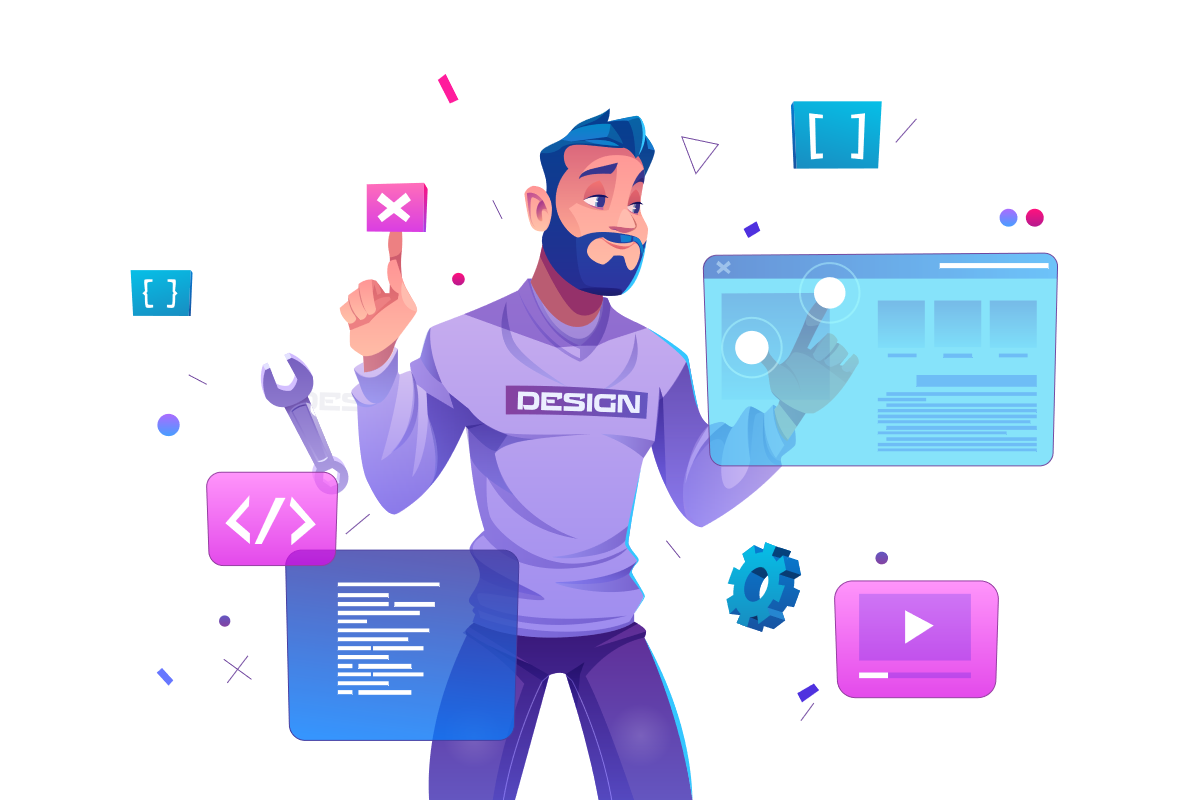
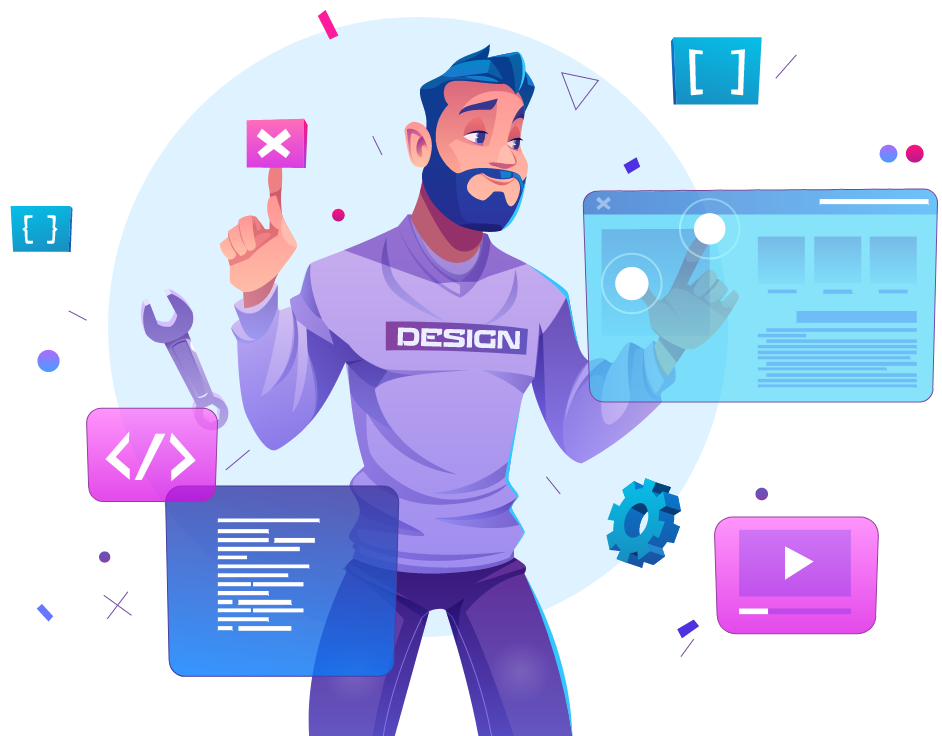
df

diff --git a/index.html b/index.html
@@ -62,7 +62,7 @@
         </div>
 
         <div class="WelcomePng">
-            <img class="Pn" src="img/19362653-ai.png" alt="" width="550">
+            <img class="Pn" src="img/19362653-ai.png" alt="" width="400">
 
         </div>
 
